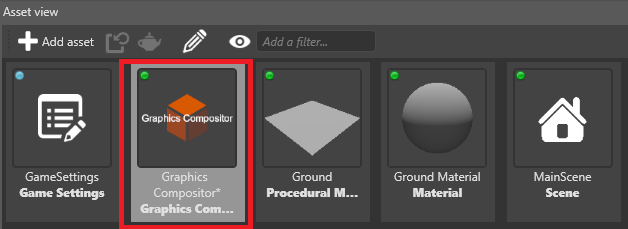
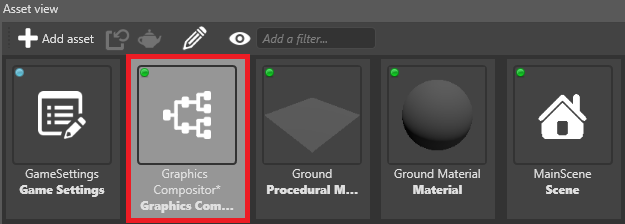
[VR] preview-a-scene-in-vr.md - rewrite, different screenshots

diff --git a/manual/virtual-reality/preview-a-scene-in-vr.md b/manual/virtual-reality/preview-a-scene-in-vr.md
@@ -1,9 +1,8 @@
 # Preview a scene in VR
 
-To preview your scene in VR, [enable VR](enable-vr.md) on the forward renderer the editor is connected to.
+To preview your scene in your VR device, connect the editor to a [VR-enabled](enable-vr.md) renderer.
 
->![Note]
->The graphics compositor screenshots on this page might differ from your Game Studio, depending on your graphics compositor setup.
+To do this:
 
 1. In the **asset view** (in the bottom pane by default), double-click the **Graphics Compositor**.
 
@@ -13,20 +12,22 @@ To preview your scene in VR, [enable VR](enable-vr.md) on the forward renderer t
 
     ![Graphics Compositor editor](media/graphics-compositor-VR-template.png)
 
-2. Select the **Entry points** node.
+2. Select the **forward render node** connected to the editor node. For example, in the screenshot below (taken from the Xenko VR sample project), the editor is connected to the lower forward renderer node.
 
-    ![Entry points node](media/entry-points-node.png)
+    ![Node connections](media/node-connections.png)
 
-3. In the **property grid**, next to **Editor renderer**, select the forward renderer you use to run your game in VR.
+3. With the forward renderer node selected, in the **property grid**, enable **VRRendererSettings**.
 
-    > [!Note]
-    > Make sure the forward renderer has VR enabled. For instructions, see [Enable VR](enable-vr.md).
+    ![Select editor renderer](media/enable-vr.png)
 
-This sends the scene editor output to your VR device, so you can preview the scene in your VR before you run the game.
+Your VR device displays the scene preview. To display the scene on your monitor instead, disable **VRRendererSettings**.
 
-## Alternative: create a toggle
+## Create a separate renderer to preview scenes in VR
 
-This option creates an additional forward renderer you can use to switch between previewing scenes in VR and on your monitor.
+If your editor and game nodes are connected to the same forward renderer, you might want to create a separate renderer dedicated to the editor. This lets you easily switch between previewing the scene in your VR device and on your monitor.
+
+>[!Note]
+>If your editor and game nodes already use separate renderers (as in the VR sample project), you don't need to follow these instructions.
 
 1. In the **asset view** (in the bottom pane by default), double-click the **Graphics Compositor**.
 
@@ -52,6 +53,7 @@ This option creates an additional forward renderer you can use to switch between
 
     > [!Tip]
     > You can right-click a property to copy or paste it.
+
     > ![Copy-paste properties](media/copy-paste-properties.png)
 
     > [!Note]
